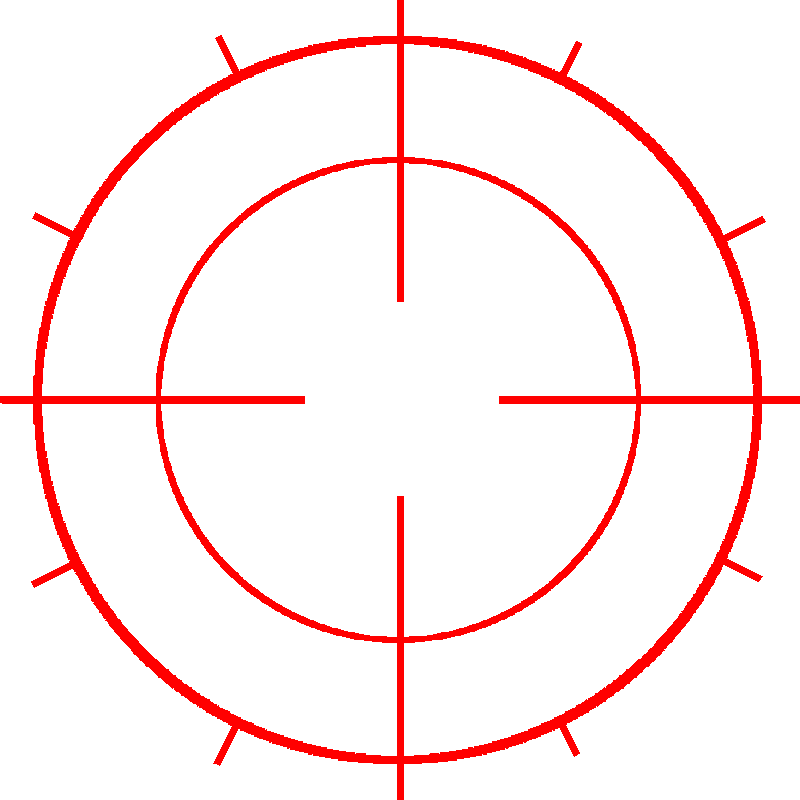
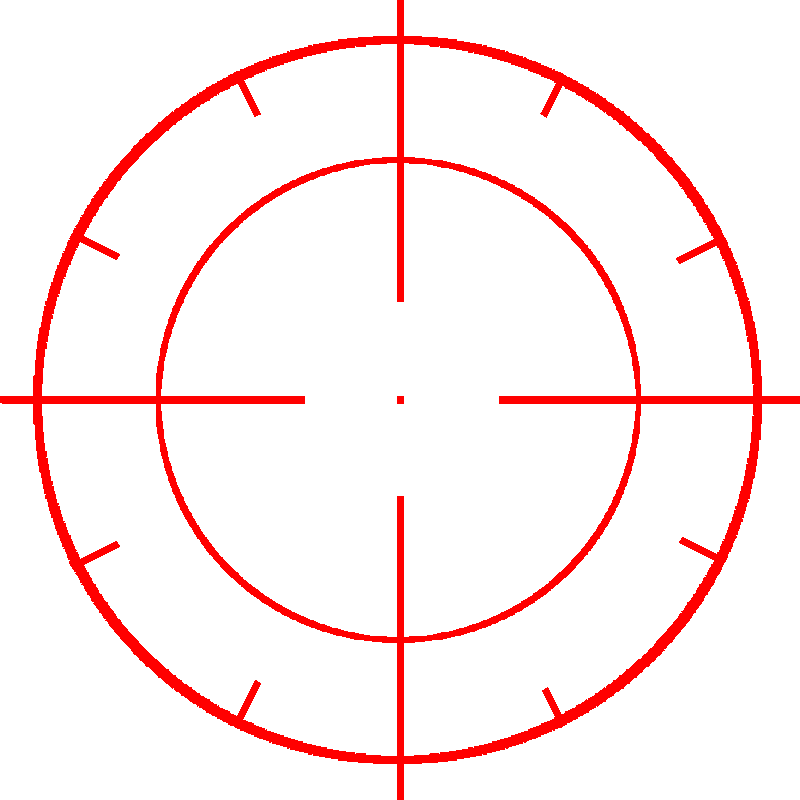
隕石の軌跡などのパーティクルが隕石消滅時に一瞬で消えるのではなく、徐々に消えるようにした。レティクルの外向きになっている線を内側にした。ロックオンしたときに効果音のピッチが連続ロックオンの回数ごとに高くなっていくようにした。

diff --git a/Assets/Nagahama/Nagahama_Scripts/AsteroidScript.cs b/Assets/Nagahama/Nagahama_Scripts/AsteroidScript.cs
@@ -12,6 +12,7 @@ public class AsteroidScript : MonoBehaviour
     [SerializeField] private AudioClip _se_ExplosionStart2;
 
     [SerializeField] private ParticleSystem _explosionEffect;   // 隕石消滅時爆発エフェクト
+    [SerializeField] private ParticleSystem[] _childParticles;  // 子要素にしてある軌跡などのパーティクル
 
     [Space(10)]
     [SerializeField] private float _destroyTime = 10f;      // 自動消滅までの時間
@@ -79,6 +80,12 @@ public class AsteroidScript : MonoBehaviour
             } else {
                 _explosionEffect.Play();
                 _explosionEffect.transform.parent = null;
+
+                foreach(var particle in _childParticles) {
+                    particle.Stop();
+                    particle.transform.parent = null;
+                }
+
                 SelfDestroy();
                 
             }
@@ -178,6 +185,11 @@ public class AsteroidScript : MonoBehaviour
 
         _explosionEffect.Play();
         _explosionEffect.transform.parent = null;
+
+        foreach (var particle in _childParticles) {
+            particle.Stop();
+            particle.transform.parent = null;
+        }
 
         SelfDestroy();
         

diff --git a/Assets/Nagahama/Nagahama_Scripts/ReticleController.cs b/Assets/Nagahama/Nagahama_Scripts/ReticleController.cs
@@ -33,6 +33,7 @@ public class ReticleController : MonoBehaviour
     [Header("サウンド系"), Space(10)]
     [SerializeField] private SoundPlayer _soundPlayer;
     [SerializeField] private AudioClip _se_LockOn;
+    [SerializeField] private float[] _lockOnSEPitchs;
 
     [Space(10)]
     [SerializeField] private GameObject _lockedOnReticlePrefab;
@@ -305,6 +306,7 @@ public class ReticleController : MonoBehaviour
                     canNotReticleMoveTime = _aimSpeedDecreaseTime;
                     tmpTarget = target;
 
+                    _soundPlayer.ChangePitchLevel(_lockOnSEPitchs[GeneratedReticleCount - 1]);
                     _soundPlayer.PlaySE(_se_LockOn);
                 }
             }
